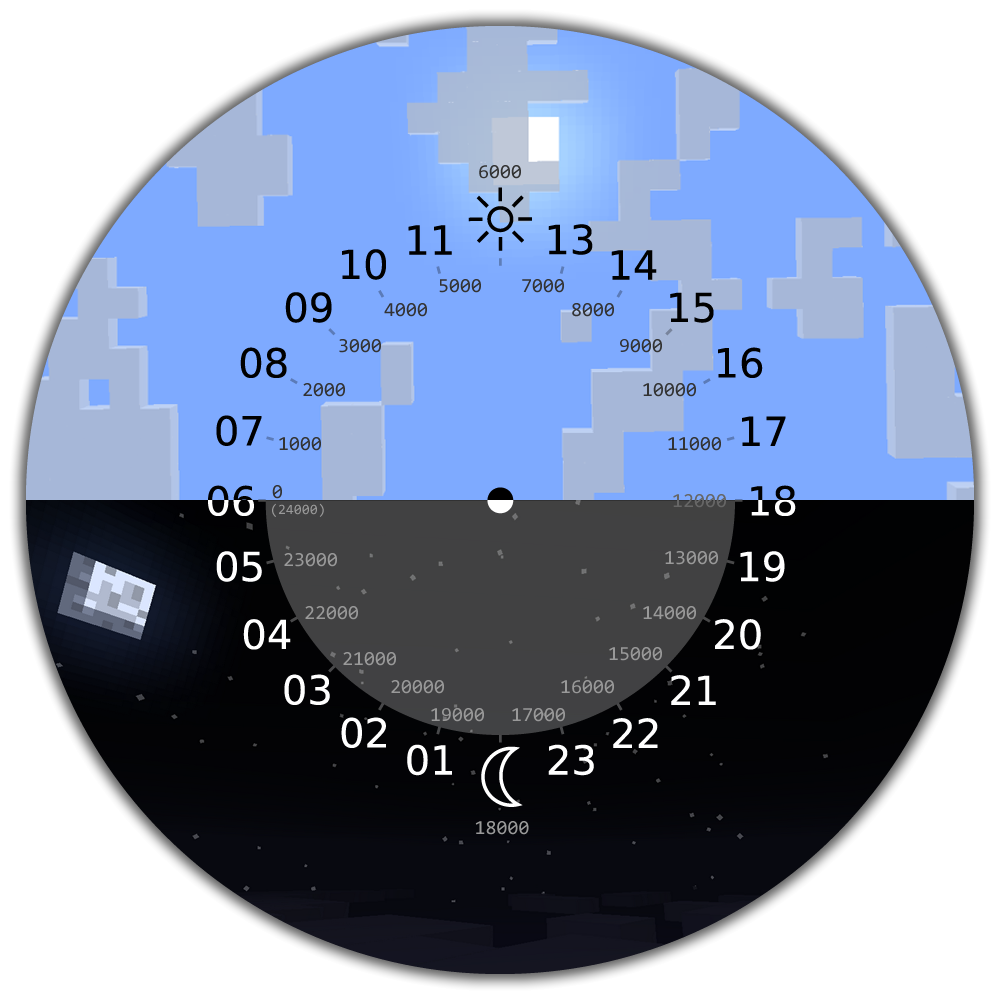
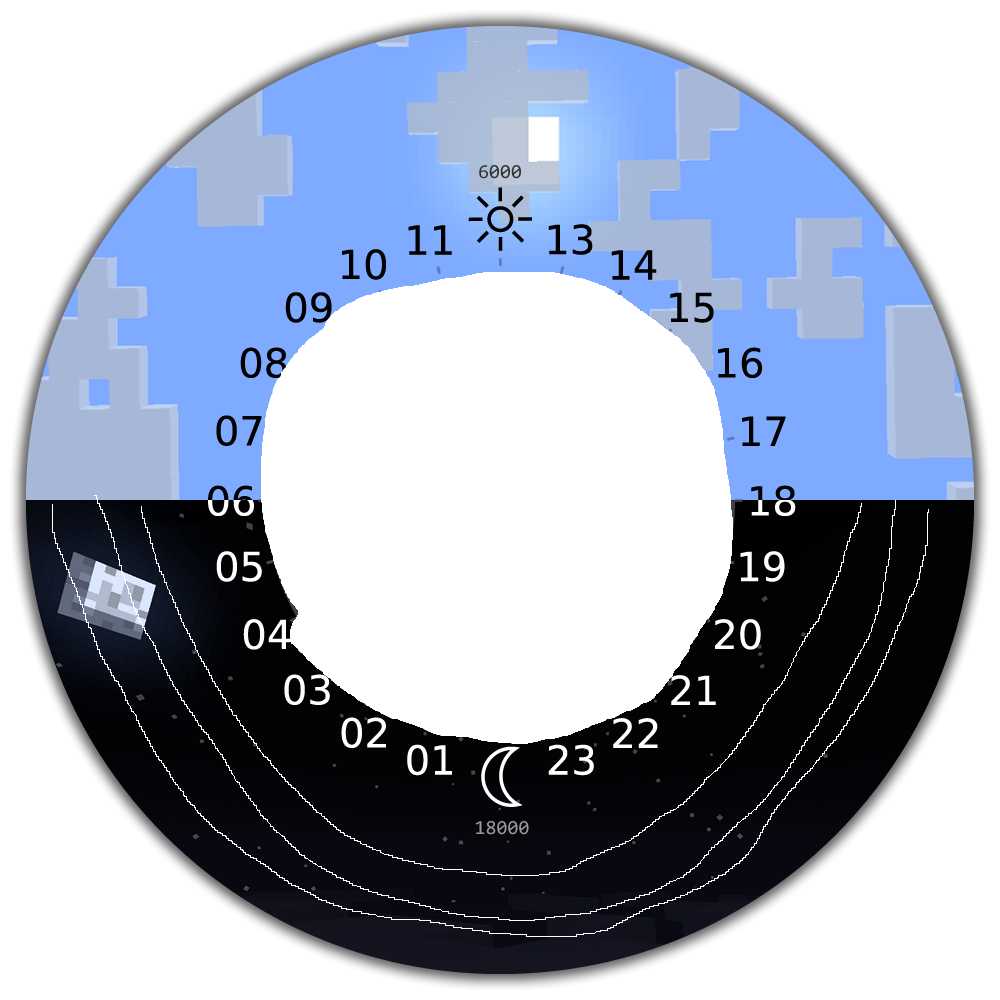
Enhance drawer functionality and WobblyClock behavior with new assets and improved animations

Changed region(s): [[0.248, 0.248, 0.744, 0.744]]

diff --git a/src/App.jsx b/src/App.jsx
@@ -3,7 +3,6 @@ import './styles/App.css'
 import Clock from './components/Clock'
 import WobblyClock from './components/WobblyClock'
 import Drawer from './components/Drawer'
-import { s } from 'framer-motion/client'
 
 function App() {
   // Get theme colors from CSS variables
@@ -18,6 +17,7 @@ function App() {
 
   const [time, setTime] = useState(new Date())
   const [drawerOpen, setDrawerOpen] = useState(true)
+  const [wobbleTrigger, setWobbleTrigger] = useState(0)
 
   useEffect(() => {
     const interval = setInterval(() => {
@@ -30,11 +30,20 @@ function App() {
   const secondsSinceMidnight = time.getHours() * 3600 + time.getMinutes() * 60 + time.getSeconds()
   const dayPercent = ((secondsSinceMidnight / 86400) * 100).toFixed(2)
 
+  const handleDrawerToggle = () => {
+    setDrawerOpen(open => {
+      const newOpen = !open;
+      if (!newOpen) setWobbleTrigger(t => t + 1);
+      return newOpen;
+    });
+  }
+
   return (
     <div className="app-wrapper">
 
       <Drawer open={drawerOpen} setOpen={setDrawerOpen} >
         <button
+          onClick={handleDrawerToggle}
           style={{
             background: themeColors.bgColor,
             cursor: 'pointer',
@@ -45,10 +54,21 @@ function App() {
             borderRadius: '5px',
             padding: '0px 0px',
           }}
-          onClick={() => setDrawerOpen(open => !open)}
         >
           <img src="src/assets/icon_drawer.png" alt="null" />
         </button>
+
+        <img
+          src={'src/assets/arrow.png'}
+          alt="arrow"
+          style={{
+            width: '100px',
+            position: 'absolute',
+            zIndex: 4,
+            marginTop: '-10px',
+          }}
+        />
+
         <div
           className="mask-half"
           style={{
@@ -62,7 +82,7 @@ function App() {
             zIndex: 3,
           }}
         >
-          <WobblyClock targetAngle={dayPercent * 3.6} />
+          <WobblyClock targetAngle={dayPercent * 3.6 - 90} wobbleTrigger={wobbleTrigger} />
         </div>
       </Drawer>
 

diff --git a/src/components/WobblyClock.jsx b/src/components/WobblyClock.jsx
@@ -1,15 +1,15 @@
 import { motion, useMotionValue, useSpring } from 'framer-motion';
 import { useEffect } from 'react';
-import clockface from '../assets/clockface.png';
+import clockface from '../assets/ex_clockface.png';
 
-function WobblyClock({ targetAngle }) {
+function WobblyClock({ targetAngle, wobbleTrigger }) {
   // raw motion value (instantly set)
   const angle = useMotionValue(0);
 
   // spring that wobbles toward angle
   const animatedAngle = useSpring(angle, {
-    stiffness: 80, // increase = snappier
-    damping: 4,     // lower = more wobble
+    stiffness: 100, // increase = snappier
+    damping: 5,     // lower = more wobble
   });
 
   // when targetAngle changes, update the motion value
@@ -17,15 +17,22 @@ function WobblyClock({ targetAngle }) {
     angle.set(targetAngle);
   }, [targetAngle]);
 
+  // Wobble when drawer opens
+  useEffect(() => {
+    // Add a quick "kick" to the angle for wobble
+    angle.set(targetAngle + 30);
+    setTimeout(() => angle.set(targetAngle), 100);
+  }, [wobbleTrigger]);
+
   return (
     <motion.div
       style={{
-        width: '380px',
-        height: '380px',
+        width: '400px',
+        height: '400px',
         backgroundImage: `url(${clockface})`,
         backgroundSize: 'cover',
         rotate: animatedAngle,
-        marginTop: '200px',
+        marginTop: '180px',
         zIndex: 3,
       }}
     />

diff --git a/src/components/Drawer.jsx b/src/components/Drawer.jsx
@@ -5,28 +5,25 @@ function Drawer({ open, setOpen , children}) {
   const y = useMotionValue(open ? 0 : -200);
 
   useEffect(() => {
-    animate(y, open ? 0 : -200, { type: 'spring', stiffness: 300, damping: 30 });
+    animate(y, open ? 0 : -180, { type: 'spring', stiffness: 200, damping: 20 });
   }, [open, y]);
-
+ // 180 23
   return (
 
       <motion.div
         style={{
           y,
           position: 'fixed',
-          boxShadow: '0px 0px 20px 0px #000000 inset',
+          boxShadow: '0px 0px 20px 0px #000000',
           transform: 'translateX(-50%)',
-          width: '400px',
+          width: '380px',
           height: '200px',
           borderRadius: '200px 200px 0 0',
-          background: 'transparent',//'#00443e',
           alignItems: 'center',
-          marginTop: '-30px', // change this
+          marginTop: '-30px',
           display: 'flex',
           flexDirection: 'column',
-          overflow: 'visible',
           zIndex: 2,
-
         }}>
         {children}
       </motion.div>
